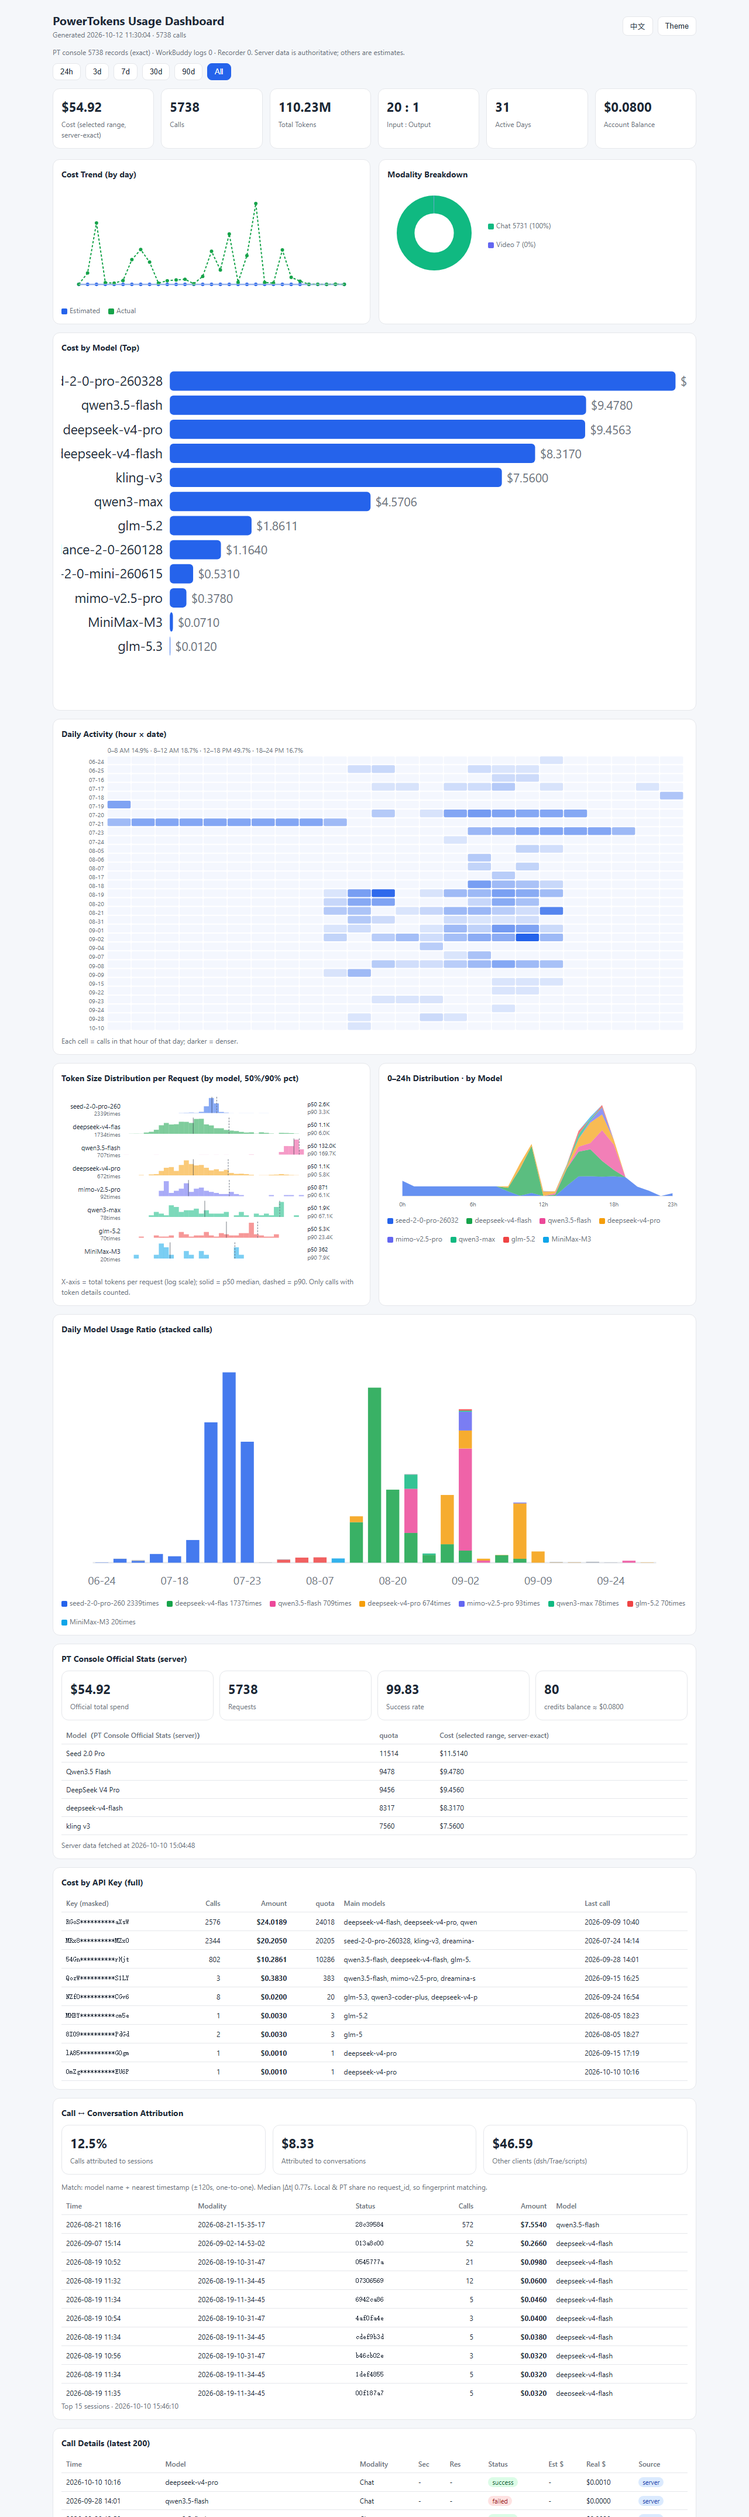
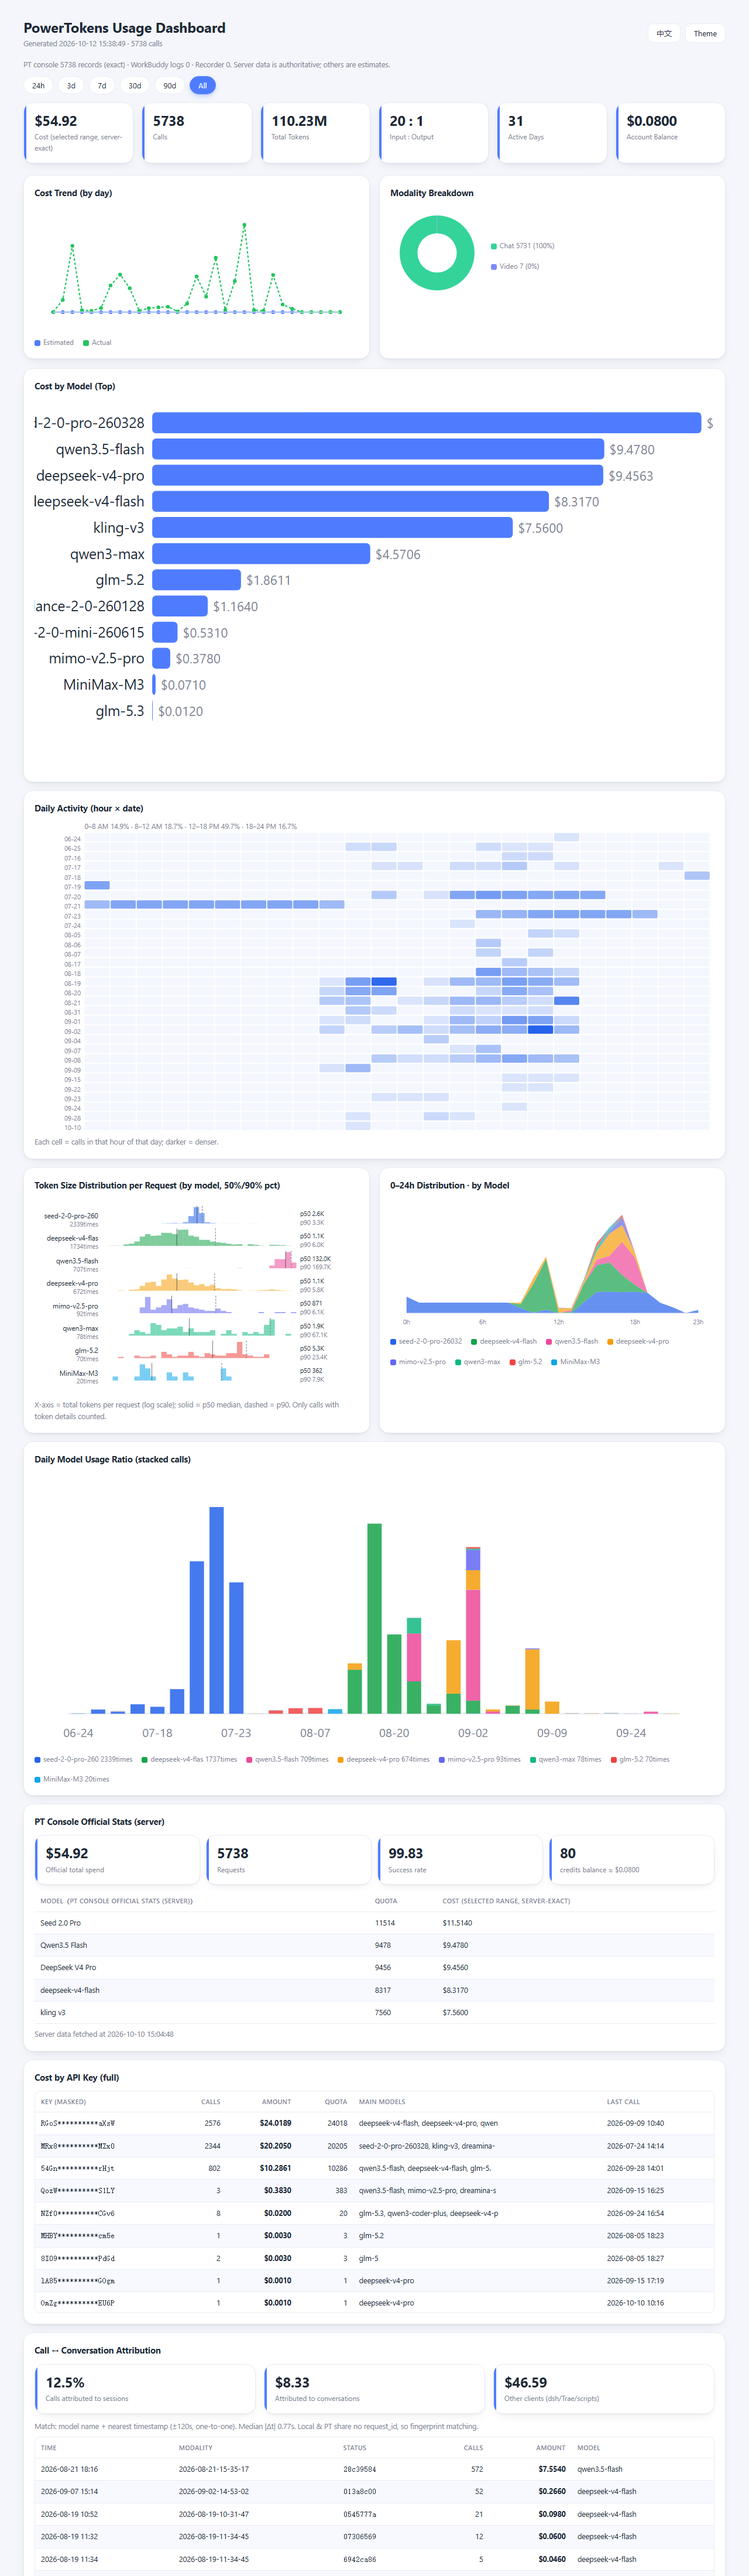
Polish responsive CSS; call details show-all toggle with count label (beyond 200 preview)

diff --git a/scripts/gen_dashboard.py b/scripts/gen_dashboard.py
@@ -352,7 +352,7 @@ def render_html(skill_dir, recs, agg, catalog, theme, server_meta=None, conv=Non
     conv = conv or {}
     recs_sorted = sorted([r for r in recs if r["ts"]], key=lambda x: x["ts"])
     recs_sorted = recs_sorted + [r for r in recs if not r["ts"]]
-    recent = list(reversed(recs_sorted))[:200]
+    recent = list(reversed(recs_sorted))
 
     # 日序列（按天聚合，补零）
     days = sorted(agg["by_day"].keys())
@@ -431,37 +431,47 @@ def render_html(skill_dir, recs, agg, catalog, theme, server_meta=None, conv=Non
 <meta name="viewport" content="width=device-width, initial-scale=1">
 <title>PowerTokens Usage Dashboard</title>
 <style>
-:root{--bg:#f5f7fa;--card:#ffffff;--ink:#1f2937;--muted:#6b7280;--line:#e5e7eb;--accent:#2563eb;--est:#2563eb;--real:#16a34a;--vid:#6366f1;--img:#ec4899;--aud:#f59e0b;--chat:#10b981;--other:#9ca3af}
-[data-theme=dark]{--bg:#0f172a;--card:#1e293b;--ink:#e2e8f0;--muted:#94a3b8;--line:#334155;--accent:#60a5fa;--est:#60a5fa;--real:#4ade80}
+:root{--bg:#f4f6fb;--card:#ffffff;--ink:#1f2937;--muted:#7b8494;--line:#e8ecf3;--accent:#4f7cff;--accent-soft:#eef3ff;--est:#4f7cff;--real:#22c55e;--vid:#7c8cff;--img:#f472b6;--aud:#fbbf24;--chat:#34d399;--other:#aab2c0;--shadow:0 1px 3px rgba(16,24,40,.06),0 8px 22px -10px rgba(16,24,40,.12);--radius:16px}
+[data-theme=dark]{--bg:#0e1320;--card:#161c2c;--ink:#e7ecf5;--muted:#9aa6bd;--line:#26304a;--accent:#6b93ff;--accent-soft:#1b2740;--est:#6b93ff;--real:#4ade80;--shadow:0 1px 3px rgba(0,0,0,.3),0 10px 26px -12px rgba(0,0,0,.5)}
 *{box-sizing:border-box}
-body{margin:0;font-family:-apple-system,BlinkMacSystemFont,"Segoe UI",Roboto,"Helvetica Neue","PingFang SC","Microsoft YaHei",sans-serif;background:var(--bg);color:var(--ink);padding:20px;line-height:1.5}
-.wrap{max-width:1100px;margin:0 auto}
-header{display:flex;justify-content:space-between;align-items:center;flex-wrap:wrap;gap:10px;margin-bottom:16px}
-h1{font-size:20px;margin:0}
-.sub{color:var(--muted);font-size:12px}
-button{background:var(--card);color:var(--ink);border:1px solid var(--line);border-radius:8px;padding:6px 12px;cursor:pointer;font-size:13px}
-.kpis{display:grid;grid-template-columns:repeat(auto-fit,minmax(150px,1fr));gap:12px;margin-bottom:18px}
-.kpi{background:var(--card);border:1px solid var(--line);border-radius:12px;padding:14px}
-.kpi .v{font-size:22px;font-weight:700}
-.kpi .l{font-size:12px;color:var(--muted);margin-top:4px}
-.grid{display:grid;grid-template-columns:1fr 1fr;gap:14px}
-@media(max-width:760px){.grid{grid-template-columns:1fr}}
-.card{background:var(--card);border:1px solid var(--line);border-radius:12px;padding:14px}
-.card h2{font-size:14px;margin:0 0 10px}
-.legend{display:flex;gap:14px;flex-wrap:wrap;font-size:12px;color:var(--muted);margin-top:6px}
-.legend i{display:inline-block;width:10px;height:10px;border-radius:2px;margin-right:4px;vertical-align:middle}
-table{width:100%;border-collapse:collapse;font-size:12px}
-th,td{text-align:left;padding:6px 8px;border-bottom:1px solid var(--line);white-space:nowrap}
-th{color:var(--muted);font-weight:600;position:sticky;top:0;background:var(--card)}
-.scroll{max-height:340px;overflow:auto}
-.tag{padding:1px 7px;border-radius:10px;font-size:11px}
-.t-succ{background:#dcfce7;color:#166534}.t-fail{background:#fee2e2;color:#991b1b}.t-unk{background:#f1f5f9;color:#475569}
+body{margin:0;font-family:-apple-system,BlinkMacSystemFont,"Segoe UI",Roboto,"Helvetica Neue","PingFang SC","Microsoft YaHei",sans-serif;background:var(--bg);color:var(--ink);padding:clamp(14px,3vw,28px);line-height:1.55;-webkit-font-smoothing:antialiased}
+.wrap{max-width:1200px;margin:0 auto}
+header{display:flex;justify-content:space-between;align-items:center;flex-wrap:wrap;gap:12px;margin-bottom:20px}
+h1{font-size:clamp(18px,2.4vw,24px);margin:0;letter-spacing:-.01em}
+.sub{color:var(--muted);font-size:12.5px}
+button{background:var(--card);color:var(--ink);border:1px solid var(--line);border-radius:10px;padding:7px 14px;cursor:pointer;font-size:13px;transition:.15s;font-family:inherit}
+button:hover{border-color:var(--accent);color:var(--accent);transform:translateY(-1px)}
+.kpis{display:grid;grid-template-columns:repeat(auto-fit,minmax(165px,1fr));gap:14px;margin-bottom:20px}
+.kpi{background:var(--card);border:1px solid var(--line);border-radius:var(--radius);padding:16px 18px;box-shadow:var(--shadow);transition:.15s;position:relative;overflow:hidden}
+.kpi:hover{transform:translateY(-2px);box-shadow:0 2px 6px rgba(16,24,40,.08),0 14px 30px -12px rgba(16,24,40,.18)}
+.kpi::before{content:"";position:absolute;left:0;top:0;bottom:0;width:4px;background:var(--accent)}
+.kpi .v{font-size:clamp(18px,2vw,24px);font-weight:750;letter-spacing:-.02em;line-height:1.1}
+.kpi .l{font-size:12px;color:var(--muted);margin-top:6px}
+.grid{display:grid;grid-template-columns:1fr 1fr;gap:16px}
+@media(max-width:780px){.grid{grid-template-columns:1fr}}
+.card{background:var(--card);border:1px solid var(--line);border-radius:var(--radius);padding:18px;box-shadow:var(--shadow);transition:.15s}
+.card:hover{box-shadow:0 2px 6px rgba(16,24,40,.06),0 16px 34px -14px rgba(16,24,40,.18)}
+.card h2{font-size:14.5px;margin:0 0 12px;font-weight:650}
+.card-h{display:flex;justify-content:space-between;align-items:center;margin-bottom:12px}
+.card-h h2{margin:0}
+.mini{font-size:11px;padding:4px 11px;border-radius:8px}
+.legend{display:flex;gap:16px;flex-wrap:wrap;font-size:12px;color:var(--muted);margin-top:10px}
+.legend i{display:inline-block;width:10px;height:10px;border-radius:3px;margin-right:5px;vertical-align:middle}
+table{width:100%;border-collapse:collapse;font-size:12.5px}
+th,td{text-align:left;padding:9px 10px;border-bottom:1px solid var(--line);white-space:nowrap}
+th{color:var(--muted);font-weight:600;position:sticky;top:0;background:var(--card);font-size:11px;text-transform:uppercase;letter-spacing:.03em}
+tbody tr:nth-child(even){background:rgba(79,124,255,.045)}
+tbody tr:hover{background:var(--accent-soft);transition:background .1s}
+.scroll{max-height:380px;overflow:auto;border-radius:10px;border:1px solid var(--line)}
+.tag{padding:2px 9px;border-radius:20px;font-size:11px;font-weight:500}
+.t-succ{background:#dcfce7;color:#15803d}.t-fail{background:#fee2e2;color:#b91c1c}.t-unk{background:#eef2f7;color:#475569}
 .t-wb{background:#e0e7ff;color:#3730a3}.t-log{background:#fef3c7;color:#92400e}.t-srv{background:#dbeafe;color:#1e40af}
-.empty{color:var(--muted);font-size:13px;padding:20px;text-align:center}
+.empty{color:var(--muted);font-size:13px;padding:24px;text-align:center}
 .fbar{display:flex;gap:8px;flex-wrap:wrap;margin-bottom:14px}
-.fb.on{background:var(--accent);color:#fff;border-color:var(--accent)}
+.fb{border-radius:20px;padding:6px 14px}
+.fb.on{background:var(--accent);color:#fff;border-color:var(--accent);box-shadow:0 4px 10px -3px rgba(79,124,255,.5)}
 svg{width:100%;height:auto;display:block}
-.tip{position:fixed;pointer-events:none;background:#111;color:#fff;font-size:11px;padding:4px 8px;border-radius:6px;opacity:0;transition:opacity .1s;z-index:9}
+.tip{position:fixed;pointer-events:none;background:#1f2937;color:#fff;font-size:11px;padding:5px 9px;border-radius:7px;opacity:0;transition:opacity .1s;z-index:9}
 </style>
 </head>
 <body data-theme="__THEME__">
@@ -491,13 +501,14 @@ svg{width:100%;height:auto;display:block}
 <div class="card" style="margin-top:14px"><h2 data-i18n="off_title">Official Stats</h2><div id="offInfo"></div></div>
 <div class="card" style="margin-top:14px"><h2 data-i18n="key_title">By API Key</h2><div id="keyInfo"></div></div>
 <div class="card" style="margin-top:14px"><h2 data-i18n="conv_title">Attribution</h2><div id="convInfo"></div></div>
-<div class="card" style="margin-top:14px"><h2 data-i18n="tbl_title">Call Details</h2><div class="scroll"><table id="tbl"><thead><tr><th data-i18n="th_time">Time</th><th data-i18n="th_model">Model</th><th data-i18n="th_mod">Modality</th><th data-i18n="th_sec">Sec</th><th data-i18n="th_res">Res</th><th data-i18n="th_status">Status</th><th data-i18n="th_est">Est $</th><th data-i18n="th_real">Real $</th><th data-i18n="th_src">Source</th></tr></thead><tbody></tbody></table></div></div>
+<div class="card" style="margin-top:14px"><div class="card-h"><h2 data-i18n="tbl_title">Call Details</h2><div style="display:flex;align-items:center;gap:10px"><span class="sub" id="tblCount"></span><button id="tblToggle" class="mini" onclick="__tblAll=!__tblAll;localStorage.setItem('ptdash_tbl_all',__tblAll?'1':'0');renderTable()" style="display:none"></button></div></div><div class="scroll"><table id="tbl"><thead><tr><th data-i18n="th_time">Time</th><th data-i18n="th_model">Model</th><th data-i18n="th_mod">Modality</th><th data-i18n="th_sec">Sec</th><th data-i18n="th_res">Res</th><th data-i18n="th_status">Status</th><th data-i18n="th_est">Est $</th><th data-i18n="th_real">Real $</th><th data-i18n="th_src">Source</th></tr></thead><tbody></tbody></table></div></div>
 <div class="card" style="margin-top:14px" id="catalogCard"><h2 data-i18n="catalog_title">Catalog</h2><div id="catalogBody"></div></div>
 </div>
 <div class="tip" id="tip"></div>
 <script>
 const DATA = __DATA__;
 let LANG = (localStorage.getItem("ptdash_lang") || "__DEF_LANG__");
+let __tblAll = (localStorage.getItem("ptdash_tbl_all") === "1");
 const I18N = {
  en:{
   title:"PowerTokens Usage Dashboard", toggle_theme:"Theme", toggle_lang:"中文",
@@ -509,7 +520,7 @@ const I18N = {
   hourly_title:"0–24h Distribution · by Model",
   dailymodel_title:"Daily Model Usage Ratio (stacked calls)",
   off_title:"PT Console Official Stats (server)", key_title:"Cost by API Key (full)",
-  conv_title:"Call ↔ Conversation Attribution", tbl_title:"Call Details (latest 200)",
+  conv_title:"Call ↔ Conversation Attribution", tbl_title:"Call Details", tbl_show_all:"Show all {n} records", tbl_show_less:"Show less", tbl_showing:"Showing {a} of {b}", tbl_showing_all:"All {n} records",
   catalog_title:"PT Model Catalog (pt_models.json, optional)",
   kpi_cost:"Cost (selected range, server-exact)", kpi_calls:"Calls", kpi_tokens:"Total Tokens",
   kpi_io:"Input : Output", kpi_active:"Active Days", kpi_balance:"Account Balance",
@@ -550,7 +561,7 @@ const I18N = {
   ridge_title:"单次请求 token 大小分布（按模型，50%/90% 分位）",
   hourly_title:"0-24 时分布 · 按模型", dailymodel_title:"每日模型用量比例（调用次数堆叠）",
   off_title:"PT 控制台官方统计（服务端）", key_title:"按 API Key 成本（全量精确）",
-  conv_title:"调用 ↔ 对话 归因", tbl_title:"调用明细（最近 200 条）",
+  conv_title:"调用 ↔ 对话 归因", tbl_title:"调用明细", tbl_show_all:"显示全部 {n} 条", tbl_show_less:"收起", tbl_showing:"显示 {a} / 共 {b} 条", tbl_showing_all:"全部 {n} 条",
   catalog_title:"PT 模型目录对照（pt_models.json，可选）",
   kpi_cost:"消耗（所选范围，服务端精确）", kpi_calls:"调用次数", kpi_tokens:"总 Token",
   kpi_io:"输入 : 输出", kpi_active:"活跃天数", kpi_balance:"账户余额",
@@ -803,14 +814,23 @@ function renderOff(){
 }
 function renderTable(){
  const tb=document.querySelector("#tbl tbody");
- if(!DATA.recent.length){tb.innerHTML='<tr><td colspan="9" class="empty">'+T("tbl_empty")+'</td></tr>';return;}
- tb.innerHTML=DATA.recent.map(r=>`<tr>
+ const btn=document.getElementById("tblToggle");
+ const cnt=document.getElementById("tblCount");
+ if(!DATA.recent.length){tb.innerHTML='<tr><td colspan="9" class="empty">'+T("tbl_empty")+'</td></tr>';if(btn)btn.style.display="none";if(cnt)cnt.textContent="";return;}
+ const all=__tblAll;
+ const rows=all?DATA.recent:DATA.recent.slice(0,200);
+ tb.innerHTML=rows.map(r=>`<tr>
   <td>${r.ts}</td><td>${r.model}</td><td>${modLabel(r.mod)}</td>
   <td>${r.sec??"-"}</td><td>${r.res??"-"}</td>
   <td><span class="tag ${r.status==='success'?'t-succ':r.status==='failed'?'t-fail':'t-unk'}">${r.status}</span></td>
   <td>${r.est==null?'-':"$"+Number(r.est).toFixed(4)}</td>
   <td>${r.real==null?'-':"$"+Number(r.real).toFixed(4)}</td>
   <td><span class="tag ${r.src==='server'?'t-srv':r.src==='workbuddy'?'t-wb':'t-log'}">${r.src}</span></td></tr>`).join("");
+ if(cnt)cnt.textContent=all?T("tbl_showing_all",{n:DATA.recent.length}):T("tbl_showing",{a:rows.length,b:DATA.recent.length});
+ if(btn){
+  if(DATA.recent.length>200){btn.style.display="inline-block";btn.textContent=all?T("tbl_show_less"):T("tbl_show_all",{n:DATA.recent.length});}
+  else btn.style.display="none";
+ }
 }
 function renderKeys(){
   const el=document.getElementById("keyInfo");const keys=(DATA.conv&&DATA.conv.keys)||[];

diff --git a/README.zh.md b/README.zh.md
@@ -165,7 +165,7 @@ python3 scripts/gen_dashboard.py --out pt-usage.html
 - **时间筛选条**：近 24h / 3天 / 7天 / 30天 / 90天 / 全部，一键联动所有图表
 - **成本趋势**（按天折线）、**日活分布**（小时×日期热力图）、**单次请求 token 大小分布**（按模型山脊图）、**0-24 时按模型分布**、**每日模型用量堆叠柱**
 - **按模型成本**、**按模态占比**（视频/图像/音频/对话）、**按 API Key 成本**（全量精确）
-- **调用 ↔ 对话归因**、**调用明细**（最近 200 条）
+- **调用 ↔ 对话归因**、**调用明细**（默认显示最近 200 条，一键展开全部记录）
 - 深浅色主题切换（记忆偏好），以及右上角 **中文 / EN 语言切换**
 
 ---

diff --git a/README.md b/README.md
@@ -165,7 +165,7 @@ The two are **not interchangeable**: only a login session can query usage/billin
 - **Time filter bar**: 24h / 3d / 7d / 30d / 90d / All, linked to every chart
 - **Cost trend** (daily line), **daily activity** (hour×date heatmap), **token size distribution** (per-model ridge), **0–24h by model**, **daily model usage stacked bars**
 - **Cost by model**, **by modality** (video/image/audio/chat), **by API Key** (full precision)
-- **Call ↔ conversation attribution**, **call details** (latest 200)
+- **Call ↔ conversation attribution**, **call details** (latest 200 shown by default, one click to expand all records)
 - Light/dark theme toggle (remembered) plus the top-right **中文 / EN language switch**
 
 ---
